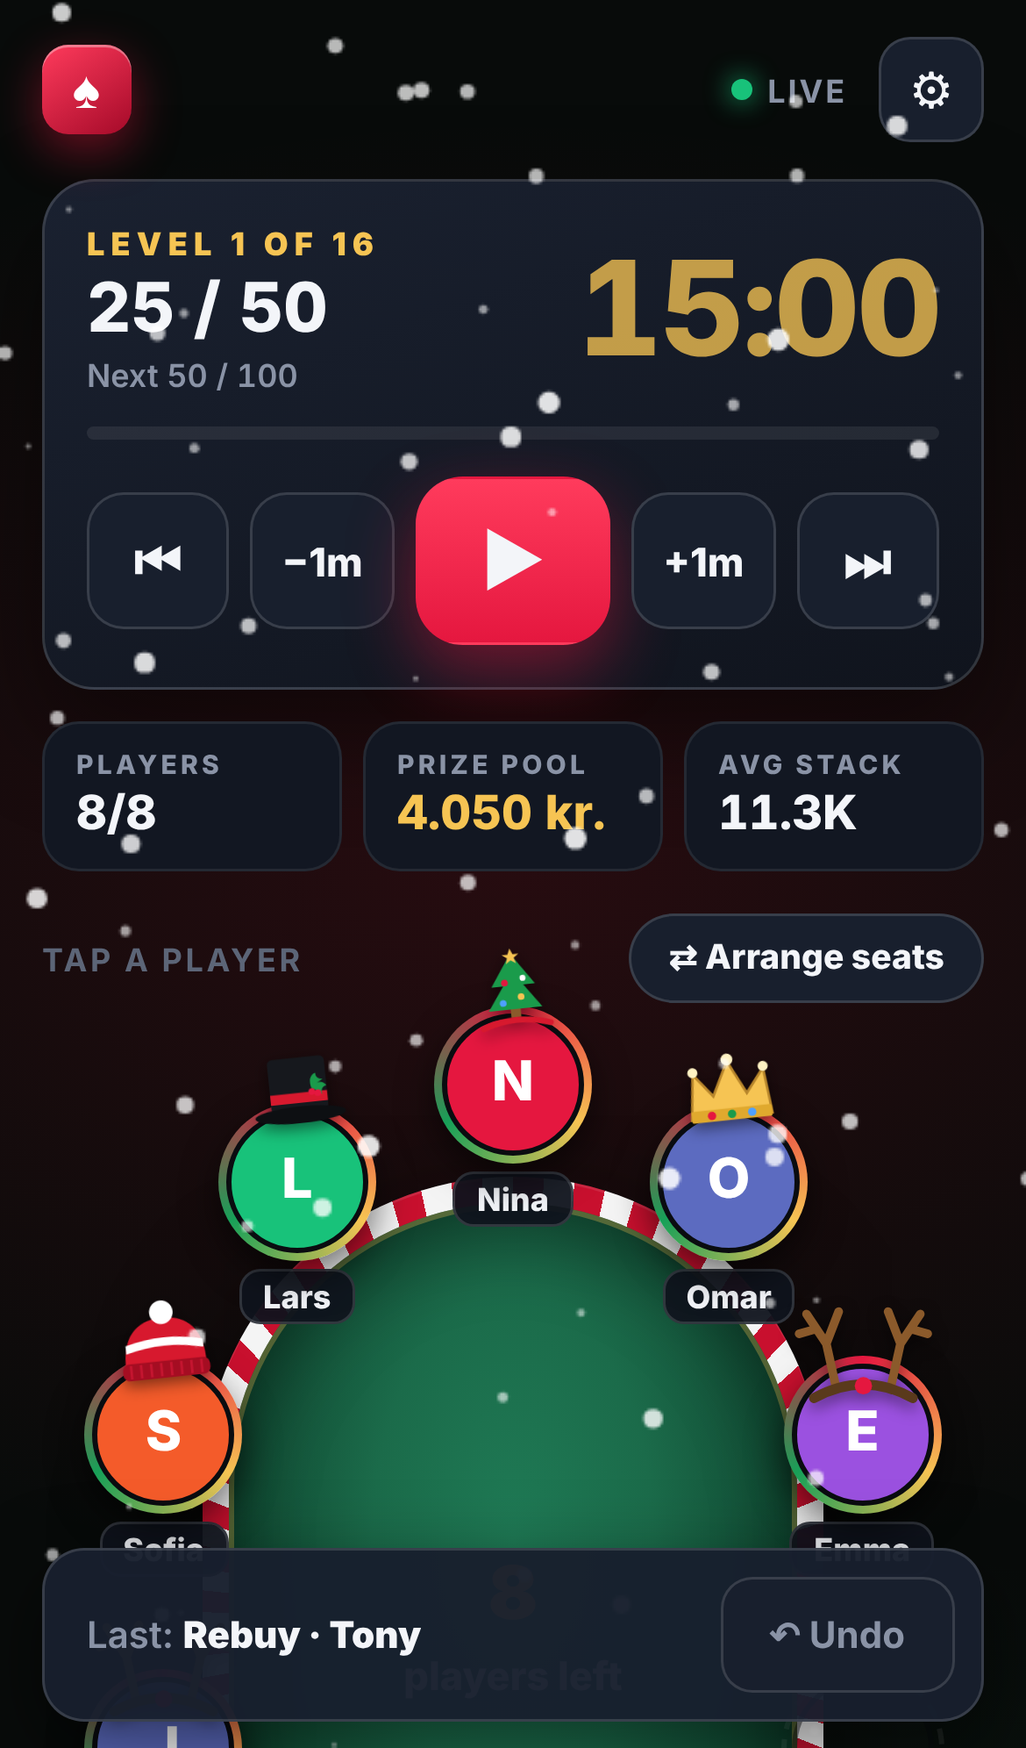
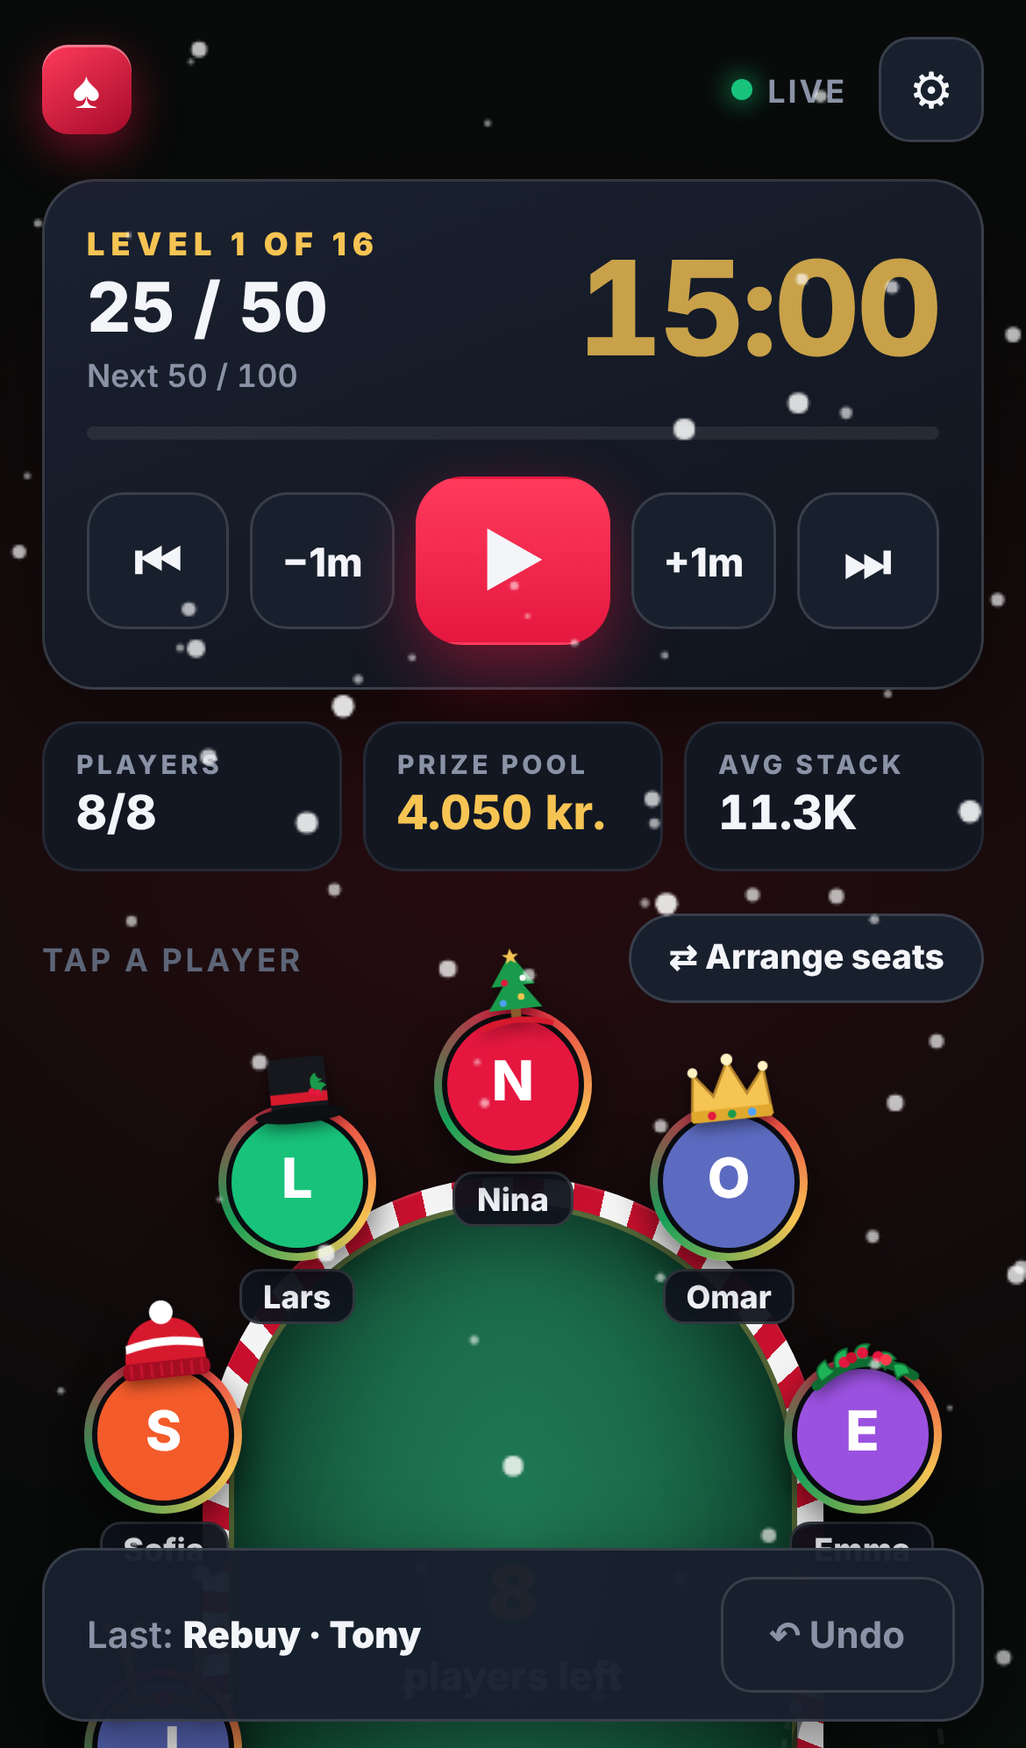
Save-as-default, payout % on TV, a different hat for every player
- Settings: Save as my default / Load my default (settings, players, photos,
  hats); a fresh start uses the saved default
- TV payouts show the percentage next to each amount
- 4 new hats (holly wreath, gift bow, angel halo, earmuffs); default hats are
  handed out so up to 11 players all wear different ones
- Phone QR moved to the bottom bar so the prize pool is big from the start;
  prize pool auto-fits height as well as width
- Test: 9 unique hats, % on TV, switching to top 4 / custom % from the phone
  mid-game with progress kept, saved default after a fresh start

Claude-Session: https://claude.ai/code/session_01N854TtBQqxUNX4Xdk88yh2

diff --git a/test/e2e.test.js b/test/e2e.test.js
@@ -806,3 +806,105 @@ test('Santa announcer and bubble / in-the-money / heads-up moments', { skip: !ch
     fs.rmSync(dataDir, { recursive: true, force: true });
   }
 });
+
+test('9 different hats, payout % on TV, payouts changed mid-game from the phone, saved default', { skip: !chromium, timeout: 120000 }, async (t) => {
+  const { io } = require('socket.io-client');
+  const dataDir = fs.mkdtempSync(path.join(os.tmpdir(), 'poker-def-'));
+  let app = createApp({ dataDir, port: 0, log: () => {} });
+  const port = await app.start();
+  const base = `http://127.0.0.1:${port}`;
+  const browser = await chromium.launch();
+  const c = io(base, { transports: ['websocket'] });
+  const errors = [];
+  const names = ['Tony', 'Maria', 'Jake', 'Sofia', 'Lars', 'Nina', 'Omar', 'Emma', 'Ali'];
+  try {
+    const r = await (await fetch(base + '/api/setup', { method: 'POST', headers: { 'Content-Type': 'application/json' }, body: JSON.stringify({ reset: true, config: { theme: 'christmas', seats: 9, buyIn: 100, payouts: { mode: 'percent', places: [50, 30, 20] } }, players: names.map((name) => ({ name })) }) })).json();
+    const display = await browser.newPage({ viewport: { width: 1920, height: 1080 } });
+    display.on('pageerror', (e) => errors.push(e.message));
+    await display.goto(base + '/display');
+    await display.waitForSelector('.seat .hat');
+
+    await t.test('every one of the 9 players wears a different hat by default', async () => {
+      const hats = await display.locator('.seat .hat').evaluateAll((els) => els.map((e) => e.getAttribute('class')));
+      assert.equal(hats.length, 9);
+      assert.equal(new Set(hats).size, 9, hats.join(', '));
+      await display.waitForTimeout(400);
+      await display.screenshot({ path: path.join(SHOTS, 'display-9-hats.png') });
+    });
+
+    await t.test('payout percentages are shown on the TV', async () => {
+      const txt = await display.textContent('#payouts');
+      assert.match(txt, /1st[\s\S]*50%[\s\S]*450 kr\./);
+      assert.match(txt, /3rd[\s\S]*20%[\s\S]*180 kr\./);
+    });
+
+    await t.test('switch to top 4 and custom % from the phone during the game', async () => {
+      await new Promise((res) => (c.connected ? res() : c.on('connect', res)));
+      await c.emitWithAck('action', { type: 'clock.start' });
+      await c.emitWithAck('action', { type: 'player.eliminate', playerId: r.state.players[8].id });
+      const ctx = await browser.newContext({ ...devices['iPhone 13'] });
+      const phone = await ctx.newPage();
+      phone.on('pageerror', (e) => errors.push(e.message));
+      phone.on('dialog', (d) => d.accept());
+      await phone.goto(base + '/remote');
+      await phone.tap('#b-menu');
+      await phone.tap('#menu a[href="/setup#payouts"]');
+      await phone.waitForSelector('#pay-list .pay-row');
+      await phone.tap('#pay-presets button:has-text("Top 4")');
+      assert.equal(await phone.locator('#pay-list .pay-row').count(), 4);
+      // custom: 40 / 30 / 20 / 10
+      for (const [i, v] of [[0, '40'], [1, '30'], [2, '20'], [3, '10']]) await phone.fill(`[data-pay="${i}"]`, v);
+      assert.match(await phone.textContent('#pay-sum'), /100%/);
+      await phone.tap('#b-save');
+      await display.waitForFunction(() => document.querySelectorAll('#payouts li').length === 4);
+      assert.match(await display.textContent('#payouts'), /1st[\s\S]*40%[\s\S]*360 kr\.[\s\S]*4th[\s\S]*10%[\s\S]*90 kr\./);
+      const s = await (await fetch(base + '/api/state')).json();
+      assert.equal(s.derived.running, true, 'clock kept running');
+      assert.equal(s.players.find((p) => p.name === 'Ali').status, 'out', 'progress kept');
+      await ctx.close();
+    });
+
+    await t.test('save as my default → used after a fresh start, and loadable in Settings', async () => {
+      const setup = await browser.newPage({ viewport: { width: 1280, height: 900 } });
+      setup.on('pageerror', (e) => errors.push(e.message));
+      setup.on('dialog', (d) => d.accept());
+      await setup.goto(base + '/setup');
+      await setup.waitForSelector('.pl-card');
+      await setup.selectOption('[data-pl-hat="0"]', 'crown');
+      await setup.click('#b-default-save');
+      await setup.waitForSelector('.toast:has-text("Saved as your default")');
+      const def = JSON.parse(fs.readFileSync(path.join(dataDir, 'default.json'), 'utf8'));
+      assert.equal(def.players.length, 9);
+      assert.equal(def.players[0].hat, 'crown');
+      assert.deepEqual(def.config.payouts.places, [40, 30, 20, 10]);
+      assert.ok(!('status' in def.players[0]), 'no game progress in the default');
+
+      // something else gets set up, then "Load my default" brings it back into the form
+      await fetch(base + '/api/setup', { method: 'POST', headers: { 'Content-Type': 'application/json' }, body: JSON.stringify({ reset: true, config: { name: 'Other' }, players: [{ name: 'X' }, { name: 'Y' }] }) });
+      await setup.reload();
+      await setup.waitForSelector('.pl-card');
+      assert.equal(await setup.locator('.pl-card').count(), 2);
+      await setup.click('#b-default-load');
+      await setup.waitForFunction(() => document.querySelectorAll('.pl-card').length === 9);
+      assert.equal(await setup.inputValue('[data-pl-hat="0"]'), 'crown');
+      await setup.close();
+
+      // fresh start (no saved game) → the default is used
+      await app.stop();
+      fs.unlinkSync(path.join(dataDir, 'state.json'));
+      app = createApp({ dataDir, port: 0, log: () => {} });
+      const p2 = await app.start();
+      const s = await (await fetch(`http://127.0.0.1:${p2}/api/state`)).json();
+      assert.equal(s.players.length, 9);
+      assert.ok(s.players.every((p) => p.status === 'active'));
+      assert.deepEqual(s.config.payouts.places, [40, 30, 20, 10]);
+    });
+
+    await t.test('no JS errors', () => assert.deepEqual(errors, []));
+  } finally {
+    c.close();
+    await browser.close();
+    await app.stop();
+    fs.rmSync(dataDir, { recursive: true, force: true });
+  }
+});

diff --git a/public/js/common.js b/public/js/common.js
@@ -163,16 +163,46 @@
       <rect x="12" y="74" width="96" height="14" rx="3" fill="#e0a92e"/>
       <circle cx="18" cy="28" r="6" fill="#fff3c4"/><circle cx="60" cy="16" r="7" fill="#fff3c4"/><circle cx="102" cy="28" r="6" fill="#fff3c4"/>
       <circle cx="36" cy="81" r="5" fill="#e5173f"/><circle cx="60" cy="81" r="5" fill="#1a9b4b"/><circle cx="84" cy="81" r="5" fill="#4ea0ff"/>` },
+    wreath: { label: '🌿 Holly wreath', svg: `<path d="M8 84 Q 60 44 112 84" stroke="#0f6b32" stroke-width="10" fill="none" stroke-linecap="round"/>
+      <g fill="#1fb357" stroke="#0f6b32" stroke-width="2">
+        <path d="M14 80 q-10 -14 6 -22 q2 10 10 12 z"/><path d="M30 68 q-4 -18 14 -20 q-2 10 4 16 z"/><path d="M50 60 q2 -18 18 -14 q-6 8 -2 16 z"/>
+        <path d="M72 60 q14 -10 22 4 q-10 2 -12 10 z"/><path d="M90 70 q16 -4 18 12 q-10 -2 -14 4 z"/></g>
+      <circle cx="40" cy="62" r="6" fill="#e5173f"/><circle cx="48" cy="58" r="6" fill="#c8102e"/><circle cx="76" cy="60" r="6" fill="#e5173f"/><circle cx="84" cy="64" r="6" fill="#ff3b4e"/><circle cx="60" cy="54" r="6" fill="#e5173f"/>` },
+    bow: { label: '🎀 Gift bow', svg: `<path d="M60 56 Q 14 10 10 44 Q 8 74 60 56 Z" fill="#e5173f" stroke="#a50d22" stroke-width="3"/>
+      <path d="M60 56 Q 106 10 110 44 Q 112 74 60 56 Z" fill="#e5173f" stroke="#a50d22" stroke-width="3"/>
+      <path d="M30 40 Q 40 46 52 52 M90 40 Q 80 46 68 52" stroke="#ff7a8a" stroke-width="4" fill="none" stroke-linecap="round"/>
+      <path d="M54 60 L38 94 L50 88 L56 98 Z M66 60 L82 94 L70 88 L64 98 Z" fill="#c8102e"/>
+      <ellipse cx="60" cy="56" rx="12" ry="10" fill="#c8102e" stroke="#a50d22" stroke-width="3"/>` },
+    halo: { label: '😇 Angel halo', svg: `<ellipse cx="60" cy="40" rx="46" ry="14" fill="none" stroke="#ffe08a" stroke-width="12" opacity=".35"/>
+      <ellipse cx="60" cy="40" rx="46" ry="14" fill="none" stroke="#f6c453" stroke-width="7"/>
+      <ellipse cx="60" cy="37" rx="40" ry="10" fill="none" stroke="#fff6d0" stroke-width="2"/>` },
+    earmuffs: { label: '🎧 Earmuffs', svg: `<path d="M16 76 Q 16 12 60 12 Q 104 12 104 76" stroke="#1b1e24" stroke-width="12" fill="none" stroke-linecap="round"/>
+      <path d="M16 76 Q 16 12 60 12 Q 104 12 104 76" stroke="#d9dde4" stroke-width="7" fill="none" stroke-linecap="round"/>
+      <circle cx="16" cy="80" r="19" fill="#fff"/><circle cx="104" cy="80" r="19" fill="#fff"/>
+      <circle cx="16" cy="80" r="13" fill="#d7192e"/><circle cx="104" cy="80" r="13" fill="#d7192e"/>
+      <circle cx="12" cy="75" r="4" fill="#ff7a8a"/><circle cx="100" cy="75" r="4" fill="#ff7a8a"/>` },
   };
-  const AUTO_HATS = ['santa', 'elf', 'beanie', 'antlers', 'tophat', 'tree'];
-  function hatFor(p) {
-    let h = p && p.hat;
-    if (h === 'none') return null;
-    if (!HATS[h]) {
-      let n = 0;
-      for (const ch of String(p && p.id)) n = (n * 31 + ch.charCodeAt(0)) >>> 0;
-      h = AUTO_HATS[n % AUTO_HATS.length];
+  // default hats are handed out in player order so everyone gets a different one
+  const AUTO_HATS = ['santa', 'elf', 'antlers', 'beanie', 'tophat', 'tree', 'wreath', 'bow', 'earmuffs', 'halo', 'crown'];
+  /** Give every "auto" player a hat nobody else is wearing (call before rendering a player list). */
+  function assignHats(players) {
+    const used = new Set(players.map((p) => p.hat).filter((h) => HATS[h]));
+    let i = 0;
+    for (const p of players) {
+      if (HATS[p.hat] || p.hat === 'none') { p.shownHat = p.hat; continue; }
+      let h = null;
+      for (; i < AUTO_HATS.length * 2 && !h; i++) {
+        const cand = AUTO_HATS[i % AUTO_HATS.length];
+        if (!used.has(cand) || i >= AUTO_HATS.length) h = cand;
+      }
+      p.shownHat = h || 'santa';
+      used.add(p.shownHat);
     }
+    return players;
+  }
+  function hatFor(p) {
+    const h = p && (p.shownHat || p.hat);
+    if (!h || h === 'none' || !HATS[h]) return null;
     return h;
   }
   /** SVG markup for a player's hat (only visible with the Christmas theme). */
@@ -250,5 +280,5 @@
     document.body.classList.toggle('theme-christmas', theme === 'christmas');
   }
 
-  window.PT = { HATS, hatHTML, results, resultsHTML, snow, applyTheme, useCurrency, esc, fmtNum, fmtShort, fmtMoney, fmtClock, ordinal, colorFor, initials, avatarHTML, chipHTML, seatPositions, blindsText, connect, toast };
+  window.PT = { HATS, hatHTML, assignHats, results, resultsHTML, snow, applyTheme, useCurrency, esc, fmtNum, fmtShort, fmtMoney, fmtClock, ordinal, colorFor, initials, avatarHTML, chipHTML, seatPositions, blindsText, connect, toast };
 })();

diff --git a/public/js/display.js b/public/js/display.js
@@ -148,7 +148,7 @@
     const num = fmtMoney(d.prizePool, '');
     const unit = `<span class="unit">${esc(cur)}</span>`;
     $('pool').innerHTML = /^[a-z.]+$/i.test(cur) ? `${num} ${unit}` : unit + num;
-    fitText($('pool'), 128, 56);
+    fitText($('pool'), 128, 40);
     $('pool-sub').textContent = `${d.entries} ${d.entries === 1 ? 'entry' : 'entries'}`
       + (d.rebuys ? ` · ${d.rebuys} rebuy${d.rebuys > 1 ? 's' : ''}` : '')
       + (d.addons ? ` · ${d.addons} add-on${d.addons > 1 ? 's' : ''}` : '');
@@ -156,7 +156,7 @@
     s.players.forEach((p) => { if (p.place) placeName[p.place] = p.name; });
     const pays = d.payouts.slice(0, 9);
     $('payouts').innerHTML = pays.map((p) => `
-      <li><span class="pl">${ordinal(p.place)}</span><span class="who">${esc(placeName[p.place] || '')}</span><span class="amt tnum">${fmtMoney(p.amount, cur)}</span></li>`).join('')
+      <li><span class="pl">${ordinal(p.place)}</span><span class="who">${esc(placeName[p.place] || '')}</span><span class="pct tnum">${+p.pct.toFixed(1)}%</span><span class="amt tnum">${fmtMoney(p.amount, cur)}</span></li>`).join('')
       + (d.payouts.length > 9 ? `<li><span class="pl">+${d.payouts.length - 9}</span><span class="who"></span><span class="amt">more</span></li>` : '');
     const stats = [
       ['PLAYERS', `${d.activeCount}<small> / ${d.entries}</small>`],
@@ -180,7 +180,7 @@
   }
 
   function seatSig(p, isWinner, size) {
-    return [p.name, p.photo, p.hat, p.status, p.rebuys, p.addons, p.place, isWinner, size].join('|');
+    return [p.name, p.photo, p.hat, p.shownHat, p.status, p.rebuys, p.addons, p.place, isWinner, size].join('|');
   }
   function seatInner(p, isWinner, size) {
     const badges = (p.rebuys ? `<span class="badge r">R${p.rebuys > 1 ? '×' + p.rebuys : ''}</span>` : '')
@@ -193,6 +193,7 @@
   }
 
   function renderSeats(s) {
+    PT.assignHats(s.players);
     const n = s.config.seats;
     const players = s.players;
     $('empty').classList.toggle('hidden', players.length > 0);
@@ -265,7 +266,13 @@
   function fitText(el, max, min) {
     let size = max;
     el.style.fontSize = size + 'px';
-    while (size > min && el.scrollWidth > el.clientWidth + 1) {
+    // shrink until it fits the width, and the whole box (label, amount, subline) fits its height
+    const box = el.parentElement;
+    // measure only the text blocks (decorations like the holly may hang over the edge on purpose)
+    const first = box.querySelector('.k') || el;
+    const last = el.nextElementSibling || el;
+    const tooTall = () => first.offsetTop < 0 || last.offsetTop + last.offsetHeight > box.clientHeight;
+    while (size > min && (el.scrollWidth > el.clientWidth + 1 || tooTall())) {
       size -= 4;
       el.style.fontSize = size + 'px';
     }

diff --git a/public/js/setup.js b/public/js/setup.js
@@ -313,6 +313,7 @@
 
   /* ---------------- players ---------------- */
   function renderPlayers() {
+    PT.assignHats(players);
     $('pl-count').textContent = `${players.length} registered`;
     $('pl-grid').innerHTML = players.map((p, i) => {
       const pr = progress[p.id];
@@ -328,7 +329,7 @@
     }).join('');
   }
   function hatOptions(cur) {
-    const opts = [['auto', '🎲 Hat: surprise me'], ...Object.entries(PT.HATS).map(([k, v]) => [k, v.label]), ['none', 'No hat']];
+    const opts = [['auto', '🎁 Hat: automatic (everyone different)'], ...Object.entries(PT.HATS).map(([k, v]) => [k, v.label]), ['none', 'No hat']];
     return opts.map(([k, l]) => `<option value="${k}" ${k === (cur || 'auto') ? 'selected' : ''}>${l}</option>`).join('');
   }
   $('pl-grid').addEventListener('change', (e) => {
@@ -453,6 +454,27 @@
   };
 
   $('b-voice').onclick = () => PT.announcer.test(cfg.announcer);
+
+  // ---- my default setup (settings + players + photos + hats) ----
+  $('b-default-save').onclick = async () => {
+    const res = await fetch('/api/default', {
+      method: 'POST', headers: { 'Content-Type': 'application/json' },
+      body: JSON.stringify({ config: cfg, players: players.map(({ id, name, photo, hat }) => ({ id, name, photo, hat })) }),
+    }).then((r) => r.json()).catch(() => ({ ok: false }));
+    toast(res.ok ? '⭐ Saved as your default setup' : 'Could not save the default', { error: !res.ok });
+  };
+  $('b-default-load').onclick = async () => {
+    const res = await fetch('/api/default').then((r) => r.json()).catch(() => ({ ok: false }));
+    if (!res.ok) return toast('No default saved yet — press ⭐ Save as my default first', { error: true });
+    if (!confirm('Replace the settings and players in this form with your saved default?\n\nNothing changes on the TV until you press Save or Start new tournament.')) return;
+    cfg = res.config;
+    players = res.players;
+    PT.useCurrency(cfg.currency);
+    PT.applyTheme(cfg.theme);
+    renderAll();
+    setDirty(true);
+    toast('Default loaded — press Start new tournament (or Save) to use it');
+  };
 
   function renderAll() {
     bindFields();

diff --git a/server.js b/server.js
@@ -50,7 +50,10 @@ function createApp({ dataDir = path.join(__dirname, 'data'), port = 3000, tickMs
       t.clock.anchor = now();
     }
   } catch {
-    t = engine.createTournament(engine.defaultConfig(), []);
+    // fresh install / no saved game: start from the host's saved default if there is one
+    let def = null;
+    try { def = JSON.parse(fs.readFileSync(path.join(dataDir, 'default.json'), 'utf8')); } catch { /* none */ }
+    t = def ? engine.createTournament(def.config, def.players, now()) : engine.createTournament(engine.defaultConfig(), []);
   }
   let saveTimer = null;
   const saveNow = () => {
@@ -118,6 +121,28 @@ function createApp({ dataDir = path.join(__dirname, 'data'), port = 3000, tickMs
       broadcast([{ type: reset ? 'reset' : 'setup' }]);
       saveNow();
       res.json({ ok: true, state: engine.publicState(t, now()) });
+    } catch (e) {
+      res.status(400).json({ ok: false, error: e.message });
+    }
+  });
+
+  const defaultFile = path.join(dataDir, 'default.json');
+  app.get('/api/default', (req, res) => {
+    try {
+      const def = JSON.parse(fs.readFileSync(defaultFile, 'utf8'));
+      res.json({ ok: true, config: engine.normalizeConfig(def.config), players: def.players || [] });
+    } catch {
+      res.status(404).json({ ok: false, error: 'No default saved yet' });
+    }
+  });
+  app.post('/api/default', (req, res) => {
+    const { config, players } = req.body || {};
+    try {
+      // keep it clean: settings + who plays (names, photos, hats), no game progress
+      const tmp = engine.createTournament(config, players, now());
+      const def = { savedAt: new Date().toISOString(), config: tmp.config, players: tmp.players.map(({ id, name, photo, hat }) => ({ id, name, photo, hat })) };
+      fs.writeFileSync(defaultFile, JSON.stringify(def, null, 2));
+      res.json({ ok: true });
     } catch (e) {
       res.status(400).json({ ok: false, error: e.message });
     }

diff --git a/public/css/display.css b/public/css/display.css
@@ -332,3 +332,10 @@ body.display.cursor-hidden, body.display.cursor-hidden * { cursor: none; }
 .coin { position: absolute; top: -60px; font-size: 46px; animation: fall linear infinite; font-style: normal; }
 .spotlight .coin { z-index: 0; opacity: .85; }
 .spotlight .spot { position: relative; z-index: 1; }
+
+.payouts li .pct { font-size: 18px; font-weight: 800; color: var(--muted); padding: 3px 10px; margin-right: 14px; border-radius: 8px; background: rgba(255,255,255,.06); }
+
+/* phone QR lives in the bottom bar (only until the game is live) */
+.chipbar .remote-qr { margin-left: auto; display: flex; align-items: center; gap: 16px; padding: 0; background: none; border: 0; }
+.chipbar .remote-qr img { width: 104px; height: 104px; border-radius: 10px; background: #fff; padding: 4px; }
+.chipbar .remote-qr .qr-url { font-size: 17px; }

diff --git a/public/display.html b/public/display.html
@@ -69,15 +69,15 @@
         <ol id="payouts"></ol>
       </div>
       <div class="card stats" id="stats"></div>
-      <div class="card remote-qr" id="qr-card">
-        <img id="qr" alt="">
-        <div><div class="k">PHONE REMOTE</div><div class="qr-url" id="qr-url"></div></div>
-      </div>
     </aside>
 
     <footer class="chipbar">
       <div class="k">CHIP VALUES</div>
       <div class="chips" id="chips"></div>
+      <div class="remote-qr" id="qr-card">
+        <img id="qr" alt="">
+        <div><div class="k">PHONE REMOTE</div><div class="qr-url" id="qr-url"></div></div>
+      </div>
       <div class="waiting hidden" id="waiting"><div class="k">WAITING FOR A SEAT</div><div class="wl" id="wl"></div></div>
     </footer>
 

diff --git a/public/css/theme.css b/public/css/theme.css
@@ -101,3 +101,8 @@ a { color: inherit; }
   border: 2px dashed rgba(255,255,255,.65);
 }
 .chip-img { border-radius: 50%; object-fit: cover; flex: none; box-shadow: 0 4px 10px rgba(0,0,0,.5); }
+
+/* placement for hats that sit centred / wide on the head (Christmas theme) */
+.theme-christmas :is(.ring, .ph) > svg.hat.hat-wreath, .theme-christmas :is(.ring, .ph) > svg.hat.hat-bow { left: 14%; top: -36%; width: 72%; transform: rotate(-6deg); }
+.theme-christmas :is(.ring, .ph) > svg.hat.hat-halo { left: 10%; top: -40%; width: 80%; transform: none; }
+.theme-christmas :is(.ring, .ph) > svg.hat.hat-earmuffs { left: -6%; top: -10%; width: 112%; transform: none; }

diff --git a/public/setup.html b/public/setup.html
@@ -123,6 +123,8 @@
 
   <footer class="s-bar">
     <span class="s-status" id="s-status"></span>
+    <button class="btn" id="b-default-load" title="Fill the form with your saved default">↺ Load my default</button>
+    <button class="btn" id="b-default-save" title="New tournaments and fresh installs start from this">⭐ Save as my default</button>
     <button class="btn" id="b-new">⟲ Start new tournament</button>
     <button class="btn btn-red" id="b-save">Save changes</button>
   </footer>

diff --git a/src/engine.js b/src/engine.js
@@ -121,7 +121,7 @@ function normalizeConfig(input) {
   };
 }
 
-const HATS = ['auto', 'none', 'santa', 'elf', 'beanie', 'antlers', 'tophat', 'tree', 'crown'];
+const HATS = ['auto', 'none', 'santa', 'elf', 'beanie', 'antlers', 'tophat', 'tree', 'crown', 'wreath', 'bow', 'halo', 'earmuffs'];
 const cleanHat = (h) => (HATS.includes(h) ? h : 'auto');
 
 function safeUrl(u) {

diff --git a/public/js/remote.js b/public/js/remote.js
@@ -147,6 +147,7 @@
   const wrap = document.querySelector('.r-table-wrap');
 
   function renderTable(s) {
+    PT.assignHats(s.players);
     const d = s.derived;
     const n = s.config.seats;
     const seats = $('r-seats');

diff --git a/README.md b/README.md
@@ -89,6 +89,8 @@ Seat moves animate on the TV and can be undone. Tap **✓ Done** when finished.
 - **Players**: add names and **upload photos** (click the photo circle). Photos are resized automatically.
 - **Chips**: values, colours and **chip photos** shown on the TV.
 
+**⭐ Save as my default** stores your settings, players, photos and hats. If there's no saved game, for example after a fresh install, the app starts from your default. **↺ Load my default** brings it back into the form any time.
+
 **Save changes** applies settings live without losing progress, so you can add a late player or tweak blinds mid-game. **Start new tournament** resets the clock and all eliminations, rebuys and add-ons, and keeps players and settings.
 
 Everything is saved (state + uploaded images) to `~/Poker Tournament Data` when started with the launcher, or `data/` with `npm start`. A restart or crash picks up where you left off, paused.
